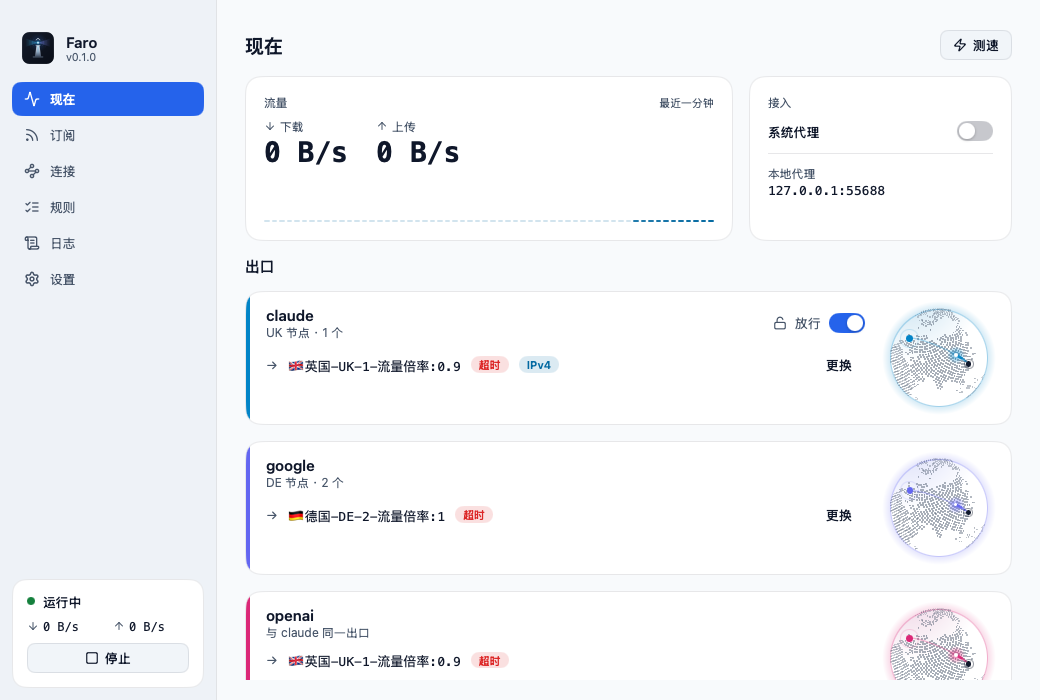
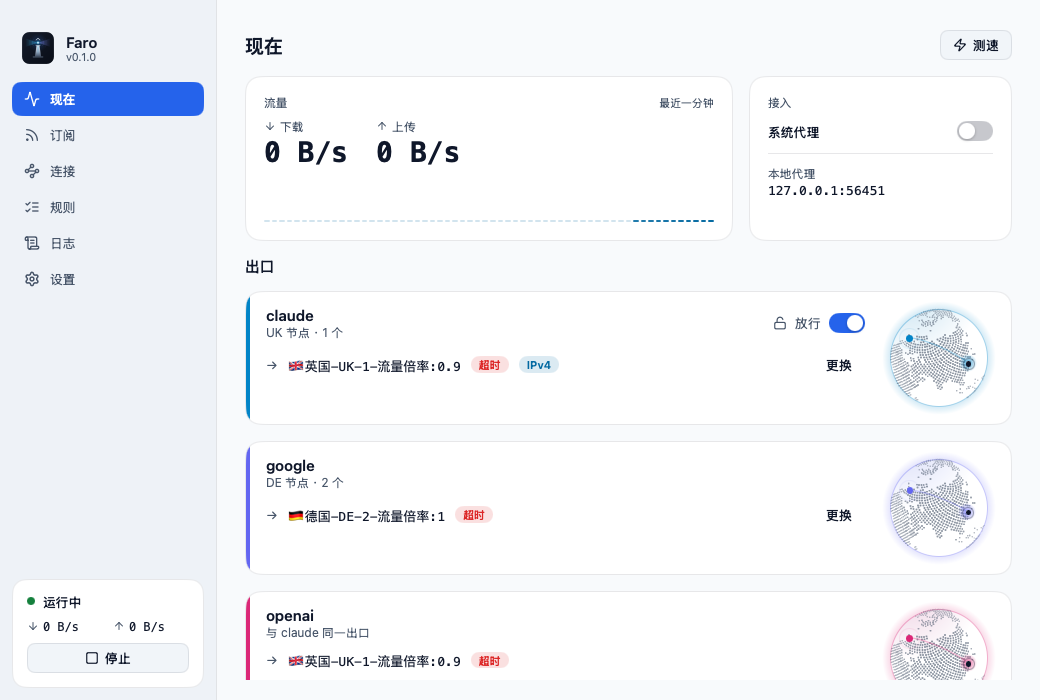
Globe: draw the still part once into a canvas

diff --git a/globe.go b/globe.go
@@ -1,6 +1,7 @@
 package main
 
 import (
+	"fmt"
 	"math"
 
 	"github.com/egoist/mygo/ui"
@@ -26,21 +27,20 @@ const (
 )
 
 // laneGlobe is the globe of a lane. exit is where its exit is, nil if that is not known.
-func (a *app) laneGlobe(c *ui.Context, hue ui.Color, exit *geo.Point, mode globeMode) {
+func (a *app) laneGlobe(c *ui.Context, id string, hue ui.Color, exit *geo.Point, mode globeMode) {
 	if a.here == nil {
 		h := geo.Here()
 		a.here = &h
 	}
 	from := *a.here
 	ui.Box(c).Size(globeSize, globeSize).Shrink(0).Role(ui.RoleNone).Draw(func(p *ui.Painter, r ui.Rect) {
-		a.drawGlobe(p, r, from, exit, hue, mode)
+		a.drawGlobe(p, id, r, from, exit, hue, mode)
 	})
 }
 
-func (a *app) drawGlobe(p *ui.Painter, r ui.Rect, from geo.Point, exit *geo.Point, hue ui.Color, mode globeMode) {
+func (a *app) drawGlobe(p *ui.Painter, id string, r ui.Rect, from geo.Point, exit *geo.Point, hue ui.Color, mode globeMode) {
 	cx, cy := r.X+r.W/2, r.Y+r.H/2
 	R := min(r.W, r.H)/2 - 9
-	box := ui.Rect{X: cx - R, Y: cy - R, W: 2 * R, H: 2 * R}
 
 	// Where the globe looks: at the middle of the arc, a little from above, so
 	// that both ends are on the face.
@@ -56,27 +56,21 @@ func (a *app) drawGlobe(p *ui.Painter, r ui.Rect, from geo.Point, exit *geo.Poin
 	view := geo.ViewOf(look)
 	at := func(s geo.Spot) (float32, float32) { return cx + float32(s.X)*R, cy - float32(s.Y)*R }
 
-	// A glow past the rim, the body lit from above left, and a hairline for its edge.
-	p.FillRadialGradient(ui.Rect{X: r.X, Y: r.Y, W: r.W, H: r.H}, ui.RadialGradient{
-		Radius: R * 1.16,
-		Stops:  []ui.GradientStop{{Color: hue.Alpha(0), At: 0.7}, {Color: hue.Alpha(0.16), At: 0.86}, {Color: hue.Alpha(0), At: 1}},
-	}, 0)
-	p.FillRadialGradient(box, ui.RadialGradient{
-		Center: ui.Point{X: 0.18, Y: -0.2}, Radius: R * 1.5,
-		Stops: []ui.GradientStop{{Color: a.k.surface2.Mix(hue, 0.18), At: 0}, {Color: a.k.surface, At: 1}},
-	}, R)
-	p.Stroke(box, hue.Alpha(0.38), R, 1)
-
-	// The land, as dots, bigger and clearer toward the middle.
-	for _, pt := range geo.Land {
-		s := view.Project(pt, 1)
-		if s.Depth < 0.04 {
-			continue
-		}
-		x, y := at(s)
-		sz := float32(1.1 + 0.9*s.Depth)
-		p.Fill(ui.Rect{X: x - sz/2, Y: y - sz/2, W: sz, H: sz}, a.k.text2.Alpha(float32(0.18+0.5*s.Depth)), sz/2)
+	// What does not move is drawn once into a canvas and shown from it: the
+	// land alone is some hundreds of dots, too many to draw again every frame.
+	key := fmt.Sprintf("%.1f %.1f %v %v %v", look.Lat, look.Lon, hue, a.k.dark, r.W)
+	layer := a.globeLayers[id]
+	if layer == nil {
+		layer = &globeLayer{cv: ui.NewCanvas(int(r.W*globeScale), int(r.H*globeScale))}
+		a.globeLayers[id] = layer
 	}
+	if layer.key != key {
+		layer.cv.Draw(p, func(cp *ui.Painter) {
+			a.paintGlobeBody(cp, view, hue, float32(globeScale)*r.W/2, float32(globeScale)*r.H/2, R*globeScale, globeScale)
+		})
+		layer.key = key
+	}
+	p.Image(layer.cv.Bitmap(), r, ui.FillBox)
 
 	now := p.Now()
 	ring := func(x, y float32, col ui.Color, phase float64) {
@@ -154,7 +148,43 @@ func (a *app) drawGlobe(p *ui.Painter, r ui.Rect, from geo.Point, exit *geo.Poin
 		ring(x, y, hue, 0.5)
 		dot(x, y, 3.2, hue)
 	}
-	p.AnimationFrameRate(30)
+	p.AnimationFrameRate(24)
+}
+
+// globeScale is how many pixels the still layer has to a DIP: enough for a
+// sharp edge on a screen that shows two.
+const globeScale = 2
+
+// globeLayer is the part of a globe that does not move, and what it was drawn for.
+type globeLayer struct {
+	cv  *ui.Canvas
+	key string
+}
+
+// paintGlobeBody paints the body of the globe: a glow past its rim, its sphere
+// lit from above left, a hairline for its edge, and the land as dots, bigger and
+// clearer toward the middle. Lengths are in the pixels of the painter, k to a DIP.
+func (a *app) paintGlobeBody(p *ui.Painter, view geo.View, hue ui.Color, cx, cy, R, k float32) {
+	box := ui.Rect{X: cx - R, Y: cy - R, W: 2 * R, H: 2 * R}
+	whole := ui.Rect{X: cx - cx, Y: cy - cy, W: 2 * cx, H: 2 * cy}
+	p.FillRadialGradient(whole, ui.RadialGradient{
+		Radius: R * 1.16,
+		Stops:  []ui.GradientStop{{Color: hue.Alpha(0), At: 0.7}, {Color: hue.Alpha(0.16), At: 0.86}, {Color: hue.Alpha(0), At: 1}},
+	}, 0)
+	p.FillRadialGradient(box, ui.RadialGradient{
+		Center: ui.Point{X: 0.18, Y: -0.2}, Radius: R * 1.5,
+		Stops: []ui.GradientStop{{Color: a.k.surface2.Mix(hue, 0.18), At: 0}, {Color: a.k.surface, At: 1}},
+	}, R)
+	p.Stroke(box, hue.Alpha(0.38), R, k)
+	for _, pt := range geo.Land {
+		s := view.Project(pt, 1)
+		if s.Depth < 0.04 {
+			continue
+		}
+		x, y := cx+float32(s.X)*R, cy-float32(s.Y)*R
+		sz := k * float32(1.1+0.9*s.Depth)
+		p.Fill(ui.Rect{X: x - sz/2, Y: y - sz/2, W: sz, H: sz}, a.k.text2.Alpha(float32(0.18+0.5*s.Depth)), sz/2)
+	}
 }
 
 // exitPlace is where a lane's exit is taken to be: the node it is on, or the

diff --git a/main.go b/main.go
@@ -36,7 +36,8 @@ type app struct {
 	title   string // the menu-bar title last set
 	titleAt time.Time
 
-	here *geo.Point // where this Mac is taken to be, for the globes
+	here        *geo.Point // where this Mac is taken to be, for the globes
+	globeLayers map[string]*globeLayer
 
 	k    tokens // the design tokens of this frame
 	page page
@@ -85,7 +86,7 @@ type app struct {
 }
 
 func newApp(eng *engine.Engine) *app {
-	return &app{eng: eng, expanded: map[string]bool{}, dnsSel: map[string]*string{}, domSel: map[string]*string{}, domTokens: map[string]*[]string{}, setQuery: map[string]*string{}, rulesEdit: eng.State().RulesText}
+	return &app{eng: eng, expanded: map[string]bool{}, dnsSel: map[string]*string{}, domSel: map[string]*string{}, domTokens: map[string]*[]string{}, setQuery: map[string]*string{}, globeLayers: map[string]*globeLayer{}, rulesEdit: eng.State().RulesText}
 }
 
 // refresh redraws the window, when there is one, and the menu-bar item. It

diff --git a/page_now.go b/page_now.go
@@ -134,7 +134,7 @@ func (a *app) lane(c *ui.Context, st engine.State, r rules.Route, hue ui.Color) 
 				mode = globeClosed
 			}
 			ui.Column(c).Padding(8, 14, 8, 0).Justify(ui.Center).Children(func() {
-				a.laneGlobe(c, hue, laneExitPlace(st, r), mode)
+				a.laneGlobe(c, r.ID, hue, laneExitPlace(st, r), mode)
 			})
 		}
 	})
@@ -228,7 +228,7 @@ func (a *app) mainLane(c *ui.Context, st engine.State) {
 			}
 		})
 		ui.Column(c).Padding(8, 14, 8, 0).Justify(ui.Center).Children(func() {
-			a.laneGlobe(c, a.k.accent, mainExitPlace(st), globeLive)
+			a.laneGlobe(c, singcfg.TagProxy, a.k.accent, mainExitPlace(st), globeLive)
 		})
 	})
 }
